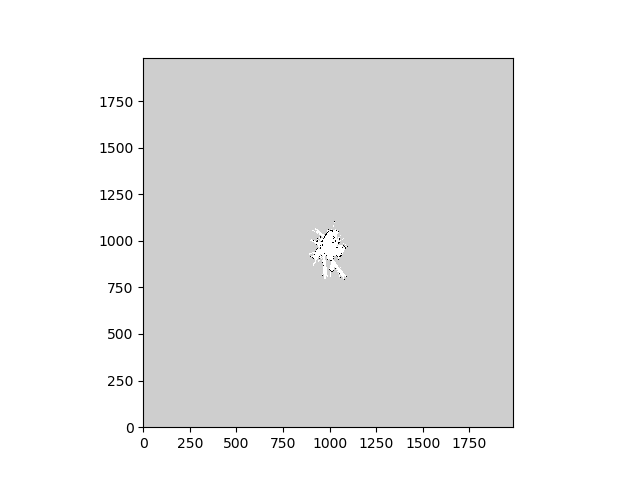
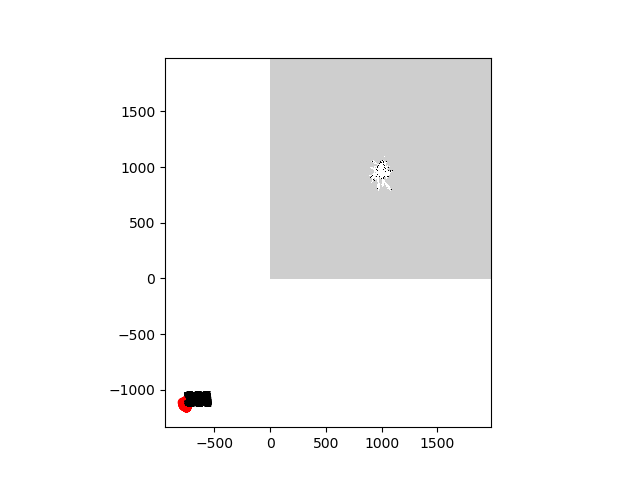
refactoring

diff --git a/node/waypoint_logger.py b/node/waypoint_logger.py
@@ -36,19 +36,13 @@ def plot_fig(map_pathname):
         origin = f.readline().split(": ")[1].replace("[", "").split(", ")
         origin = [float(origin[0]), float(origin[1])]
     # Lecture des coordonnees
-    coords = []
-    with open(node_directory+'/../fichiers_csv/waypoints.csv', 'r') as f:
-        for line in f:
-            point = line.split(", ")
-            x, y = float(point[0]), float(point[1])
-            coords.append((x, y))
+    data = np.loadtxt("/home/pe/catkin_ws/src/f1tenth_simulator/fichiers_csv/waypoints.csv", delimiter=",")
+    coords = data[:, :2]
     # Transformation des coordonnees
     scale = 1/resolution
-    dx, dy = origin[0], origin[1] # exemple de translation
-    print(dx,dy)
-    for i, (x, y) in enumerate(coords):
-        newx = scale * (x + dx)
-        newy = scale * (y + dy)
+    for i, (dx, dy) in enumerate(coords):
+        newx = scale * (origin[0] + dx)
+        newy = scale * (origin[1] + dy)
         coords[i]=(newx, newy)
     for i, (x, y) in enumerate(coords):
         plt.scatter(x, y, color='r')
